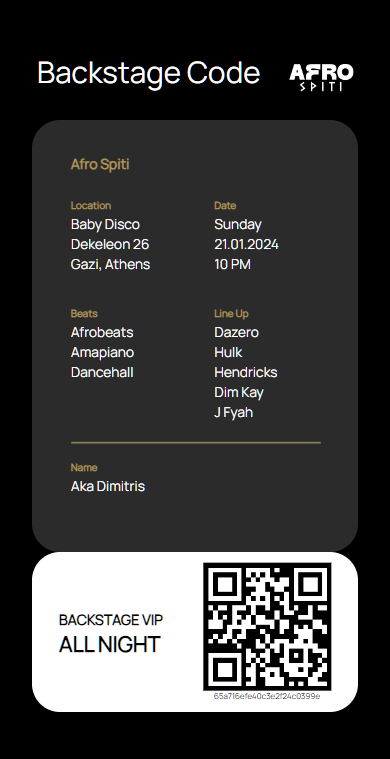
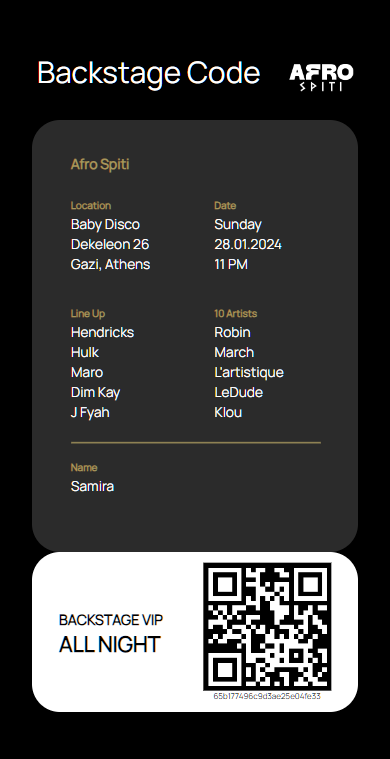
changes

diff --git a/server/controllers/backstageController.js b/server/controllers/backstageController.js
@@ -75,22 +75,24 @@ const addBackstageCode = async (req, res) => {
 
               <div> 
                 <div style="margin-top: 0.5rem;">
-                    <p style="margin: 0; color: #A6965D; font-weight: 600; font-size: 0.625rem; line-height: 1rem;">Beats</p>
-                    <p style="margin: 0; font-weight: 500; font-size: 0.857rem; color: #fff; line-height: 1.25rem;">Afrobeats</p>
-                        <p style="margin: 0; font-weight: 500; font-size: 0.857rem; color: #fff; line-height: 1.25rem;">Amapiano</p>
-                            <p style="margin: 0; font-weight: 500; font-size: 0.857rem; color: #fff; line-height: 1.25rem;">Dancehall</p>
+                    <p style="margin: 0; color: #A6965D; font-weight: 600; font-size: 0.625rem; line-height: 1rem;">Line Up</p>
+                    <p style="margin: 0; font-weight: 500; font-size: 0.857rem; color: #fff; line-height: 1.25rem;">Hendricks (BDAY)</p>
+                    <p style="margin: 0; font-weight: 500; font-size: 0.857rem; color: #fff; line-height: 1.25rem;">Hulk</p>
+                    <p style="margin: 0; font-weight: 500; font-size: 0.857rem; color: #fff; line-height: 1.25rem;">Maro</p>
+                    <p style="margin: 0; font-weight: 500; font-size: 0.857rem; color: #fff; line-height: 1.25rem;">Dim Kay</p>
+                    <p style="margin: 0; font-weight: 500; font-size: 0.857rem; color: #fff; line-height: 1.25rem;">J Fyah</p>
                 </div>
-
               </div>
 
 
 
                 <div style="margin-top: 0.5rem; ">
-                    <p style="margin: 0; color: #A6965D; font-weight: 600; font-size: 0.625rem; line-height: 1rem;">Line Up</p>
-                    <p style="margin: 0; font-weight: 500; font-size: 0.857rem; color: #fff; line-height: 1.25rem;">Hulk</p>                    
-                    <p style="margin: 0; font-weight: 500; font-size: 0.857rem; color: #fff; line-height: 1.25rem;">Hendricks</p>
-                    <p style="margin: 0; font-weight: 500; font-size: 0.857rem; color: #fff; line-height: 1.25rem;">Dim Kay</p>
-                    <p style="margin: 0; font-weight: 500; font-size: 0.857rem; color: #fff; line-height: 1.25rem;">J Fyah</p>
+                    <p style="margin: 0; color: #A6965D; font-weight: 600; font-size: 0.625rem; line-height: 1rem;">10 Artist</p>
+                    <p style="margin: 0; font-weight: 500; font-size: 0.857rem; color: #fff; line-height: 1.25rem;">Robin</p>                    
+                    <p style="margin: 0; font-weight: 500; font-size: 0.857rem; color: #fff; line-height: 1.25rem;">March</p>
+                    <p style="margin: 0; font-weight: 500; font-size: 0.857rem; color: #fff; line-height: 1.25rem;">L'artistique</p>
+                    <p style="margin: 0; font-weight: 500; font-size: 0.857rem; color: #fff; line-height: 1.25rem;">LeDude</p>
+                    <p style="margin: 0; font-weight: 500; font-size: 0.857rem; color: #fff; line-height: 1.25rem;">Klou</p>
                 </div>
          
 

diff --git a/server/controllers/friendsController.js b/server/controllers/friendsController.js
@@ -75,10 +75,12 @@ const addFriendsCode = async (req, res) => {
 
               <div> 
                 <div style="margin-top: 0.5rem;">
-                    <p style="margin: 0; color: #A6965D; font-weight: 600; font-size: 0.625rem; line-height: 1rem;">Beats</p>
-                    <p style="margin: 0; font-weight: 500; font-size: 0.857rem; line-height: 1.25rem;">Afrobeats</p>
-                        <p style="margin: 0; font-weight: 500; font-size: 0.857rem; line-height: 1.25rem;">Amapiano</p>
-                            <p style="margin: 0; font-weight: 500; font-size: 0.857rem; line-height: 1.25rem;">Dancehall</p>
+                    <p style="margin: 0; color: #A6965D; font-weight: 600; font-size: 0.625rem; line-height: 1rem;">Line Up</p>
+                    <p style="margin: 0; font-weight: 500; font-size: 0.857rem; line-height: 1.25rem;">Hendricks (BDAY)</p>
+                    <p style="margin: 0; font-weight: 500; font-size: 0.857rem; line-height: 1.25rem;">Hulk</p>                    
+                    <p style="margin: 0; font-weight: 500; font-size: 0.857rem; line-height: 1.25rem;">Dim Kay</p>
+                    <p style="margin: 0; font-weight: 500; font-size: 0.857rem; line-height: 1.25rem;">J Fyah</p>
+                              <p style="margin: 0; font-weight: 500; font-size: 0.857rem; line-height: 1.25rem;">Maro</p>
                 </div>
 
               </div>
@@ -86,14 +88,13 @@ const addFriendsCode = async (req, res) => {
 
 
                      <div style="margin-top: 0.5rem; ">
-                    <p style="margin: 0; color: #A6965D; font-weight: 600; font-size: 0.625rem; line-height: 1rem;">Line Up</p>
-                    <p style="margin: 0; font-weight: 500; font-size: 0.857rem; line-height: 1.25rem;">Hulk</p>                    
-                    <p style="margin: 0; font-weight: 500; font-size: 0.857rem; line-height: 1.25rem;">Hendricks</p>
-                    <p style="margin: 0; font-weight: 500; font-size: 0.857rem; line-height: 1.25rem;">Dim Kay</p>
-                    <p style="margin: 0; font-weight: 500; font-size: 0.857rem; line-height: 1.25rem;">J Fyah</p>
+                    <p style="margin: 0; color: #A6965D; font-weight: 600; font-size: 0.625rem; line-height: 1rem;">10 Artist</p>
+                    <p style="margin: 0; font-weight: 500; font-size: 0.857rem; line-height: 1.25rem;">Robin</p>                    
+                    <p style="margin: 0; font-weight: 500; font-size: 0.857rem; line-height: 1.25rem;">March</p>
+                    <p style="margin: 0; font-weight: 500; font-size: 0.857rem; line-height: 1.25rem;">L'artistique</p>
+                    <p style="margin: 0; font-weight: 500; font-size: 0.857rem; line-height: 1.25rem;">Klou</p>
+                                        <p style="margin: 0; font-weight: 500; font-size: 0.857rem; line-height: 1.25rem;">LeDude</p>
                 </div>
-         
-         
 
            </div>
           

diff --git a/client/src/Components/Dashboard/Dashboard.js b/client/src/Components/Dashboard/Dashboard.js
@@ -203,7 +203,7 @@ const Dashboard = () => {
         </div>
       </div>
       <div className="dashboard-actions">
-        {/* {user.isDeveloper && (
+        {user.isDeveloper && (
           <>
             <button
               className="dashboard-actions-button"
@@ -211,14 +211,14 @@ const Dashboard = () => {
             >
               Events
             </button>
-            <button
+            {/* <button
               className="dashboard-actions-button"
               onClick={() => setShowSettings(true)}
             >
               Settings
-            </button>
+            </button> */}
           </>
-        )} */}
+        )}
 
         {user.isAdmin && (
           <>

diff --git a/server/index.js b/server/index.js
@@ -6,10 +6,10 @@ const cookieParser = require("cookie-parser");
 const moment = require("moment-timezone");
 moment.tz.setDefault("Europe/Athens");
 
-const authRoutes = require("./routes/api/auth");
+const authRoutes = require("./routes/auth");
 const spotifyRoutes = require("./routes/api/spotifyRoutes");
 const userRoutes = require("./routes/api/users");
-const eventsRoutes = require("./routes/api/events");
+const eventsRoutes = require("./routes/api/eventsRoutes");
 const dnsRoutes = require("./routes/api/dnsRoutes");
 const friendsRoutes = require("./routes/api/friendsRoutes");
 const backstageRoutes = require("./routes/api/backstageRoutes");

diff --git a/server/routes/auth.js b/server/routes/auth.js
@@ -1,7 +1,7 @@
 const express = require("express");
 const router = express.Router();
 const { check } = require("express-validator");
-const { authenticate } = require("../../middleware/authMiddleware");
+const { authenticate } = require("../middleware/authMiddleware");
 
 const {
   register,
@@ -10,7 +10,7 @@ const {
   getUserData,
   refreshAccessToken,
   logout,
-} = require("../../controllers/authController");
+} = require("../controllers/authController");
 
 // Middleware to log incoming requests
 router.use((req, res, next) => {

diff --git a/server/utils/pdf.js b/server/utils/pdf.js
@@ -258,8 +258,14 @@ const createTicketPDF = async (
 
         <div class="event-bites">
           <h3>Line Up</h3>
-          <p>Hendricks</p>
+          <p>Hendricks (BDAY)</p>
           <p>Hulk</p>
+          <p>Robin</p>
+          <p>March</p>
+          <p>L'artistique</p>
+          <p>LeDude</p>
+          <p>Maro</p>
+          <p>Klou</p>
           <p>Dim Kay</p>
           <p>J Fyah</p>
         </div>

diff --git a/server/controllers/eventsController.js b/server/controllers/eventsController.js
@@ -1,4 +1,4 @@
-const Event = require("../models/Event");
+const Event = require("../models/eventsModel");
 const User = require("../models/User");
 const GuestCode = require("../models/GuestCode");
 const QRCode = require("qrcode");
